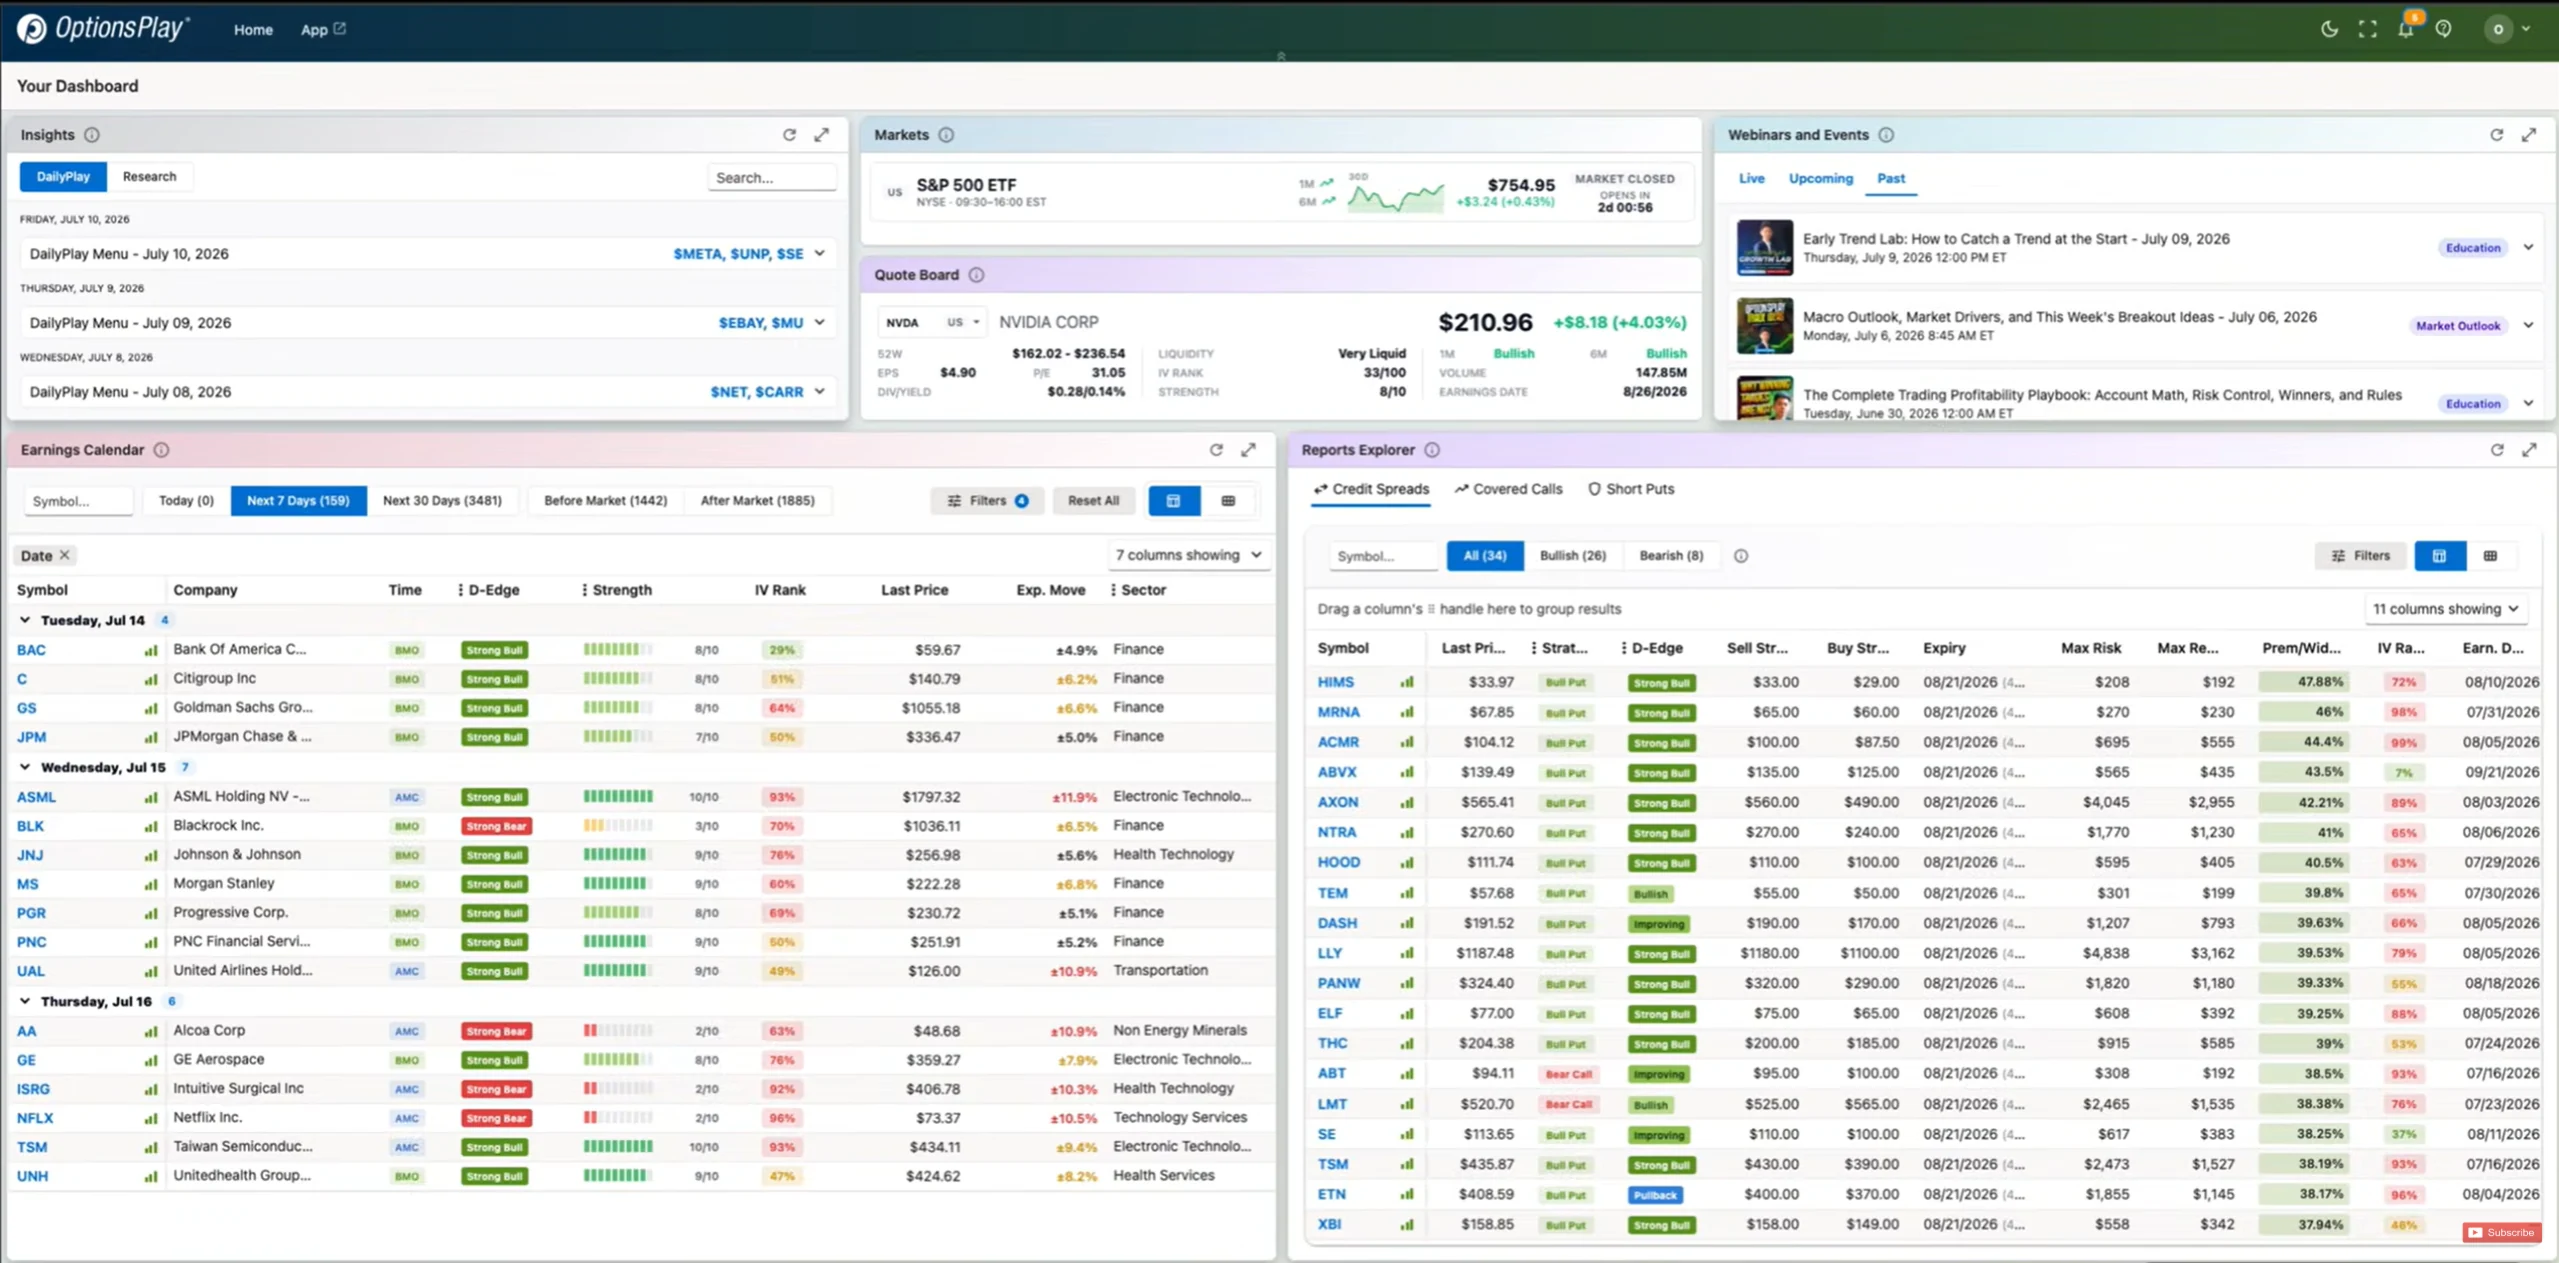
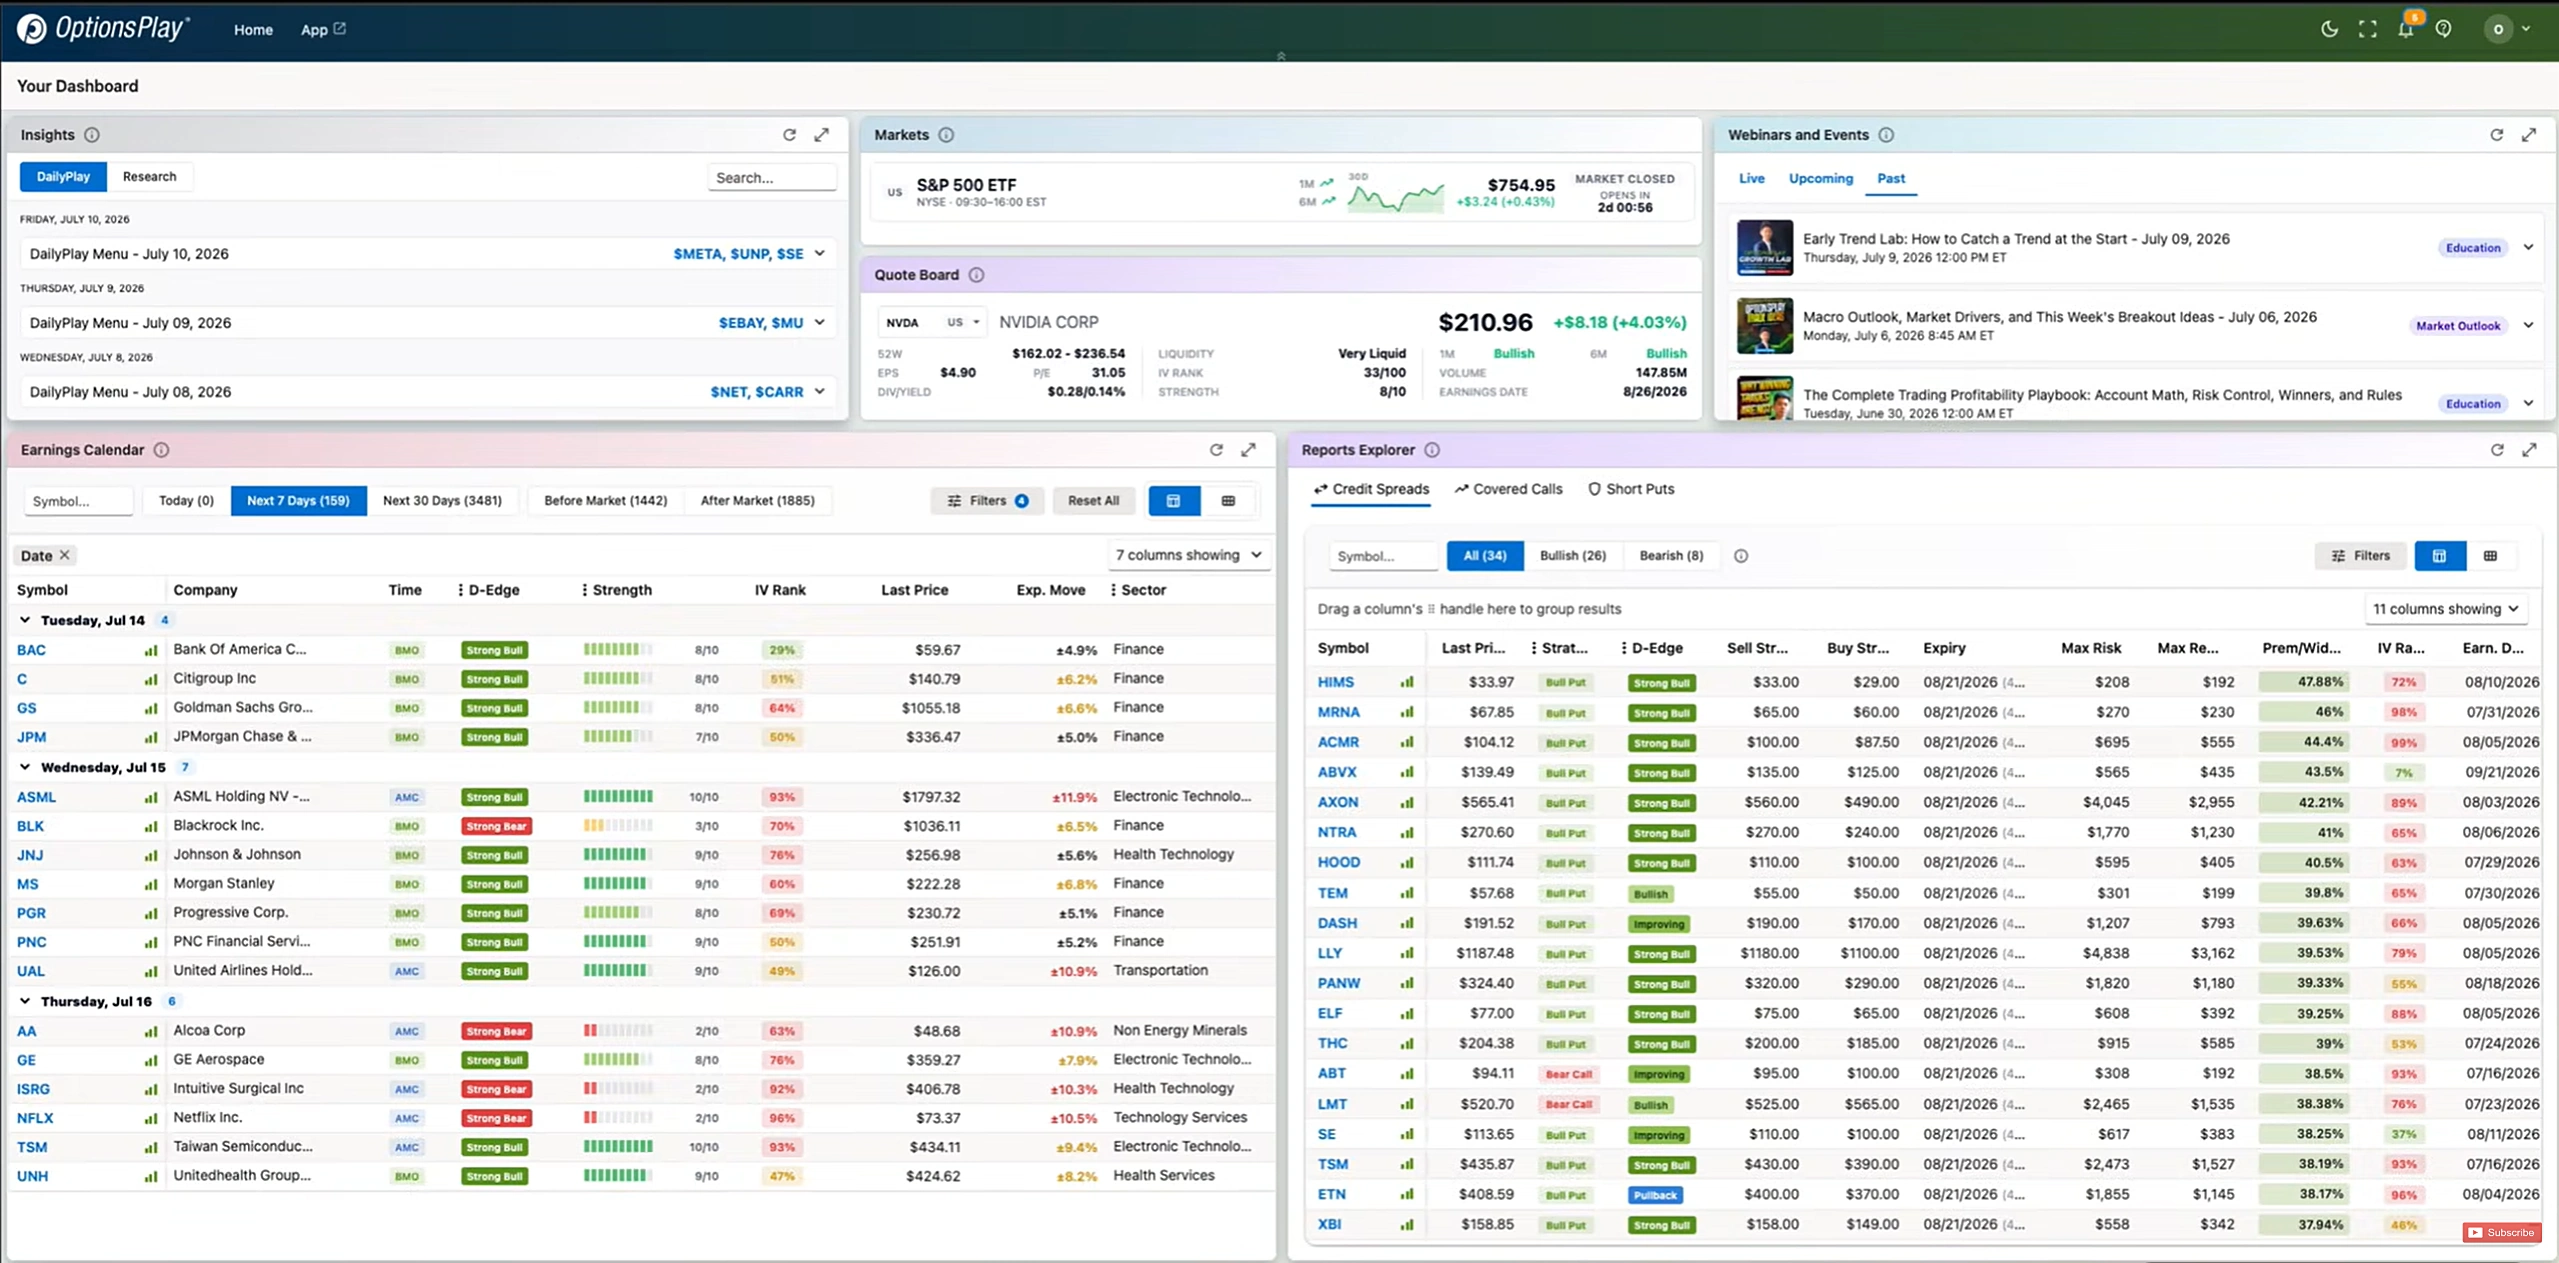
OptionsPlay: sharper after image, polished before/after slider (#10)
Claude-Session: https://claude.ai/code/session_012VHMbrfKj18GrAmvx2kKi2

diff --git a/optionsplay.html b/optionsplay.html
@@ -87,13 +87,20 @@ h1{font-size:clamp(28px,1.4vw + 16px,42px);line-height:1.15;font-weight:600;marg
 .ba img{border:0;box-shadow:none}
 .ba-a{position:absolute;inset:0;width:100%;height:100%;object-fit:cover;object-position:left top}
 .ba-b{position:absolute;inset:0;background:#fff;clip-path:inset(0 calc(100% - var(--p)) 0 0)}
-.ba-b img{width:100%;height:100%;object-fit:contain;object-position:center}
-.ba .lbl{top:12px;left:12px;z-index:2;pointer-events:none}
-.ba .lbl-r{left:auto;right:12px}
-.ba-line{position:absolute;top:0;bottom:0;left:var(--p);width:2px;margin-left:-1px;background:var(--brand);z-index:3;pointer-events:none}
-.ba-k{position:absolute;top:50%;left:50%;width:44px;height:44px;transform:translate(-50%,-50%);display:grid;place-items:center;background:var(--brand);color:#fff;box-shadow:0 4px 14px rgba(0,0,0,.2)}
+.ba-b img{width:100%;height:100%;object-fit:cover;object-position:left top}
+.ba .lbl{top:auto;bottom:14px;left:14px;z-index:2;pointer-events:none;display:flex;flex-direction:column;gap:2px;padding:8px 12px;font-size:15px;font-weight:600;line-height:1.2;transition:opacity .2s}
+.ba .lbl small{font-size:13px;font-weight:400;opacity:1;color:#E6F0E8}
+.ba .lbl-b{background:#2B2B29}
+.ba .lbl-r{left:auto;right:14px;text-align:right}
+.ba.lo .lbl-b,.ba.hi .lbl-r{opacity:0}
+@media (max-width:640px){.ba .lbl{padding:4px 8px;font-size:13px;bottom:8px;left:8px}.ba .lbl-r{left:auto;right:8px}.ba .lbl small{display:none}.ba-k{width:44px;height:44px}}
+.ba-line{position:absolute;top:0;bottom:0;left:var(--p);width:2px;margin-left:-1px;background:#fff;box-shadow:0 0 0 1px rgba(0,0,0,.15),0 0 12px rgba(0,0,0,.2);z-index:3;pointer-events:none}
+.ba-k{position:absolute;top:50%;left:50%;width:48px;height:48px;border:2px solid #fff;transition:transform .15s;transform:translate(-50%,-50%);display:grid;place-items:center;background:var(--brand);color:#fff;box-shadow:0 4px 14px rgba(0,0,0,.2)}
 .ba-r{position:absolute;inset:0;width:100%;height:100%;margin:0;opacity:0;cursor:ew-resize;z-index:4}
 .ba-r:focus-visible~.ba-line .ba-k,.ba-f:has(.ba-r:focus-visible) .ba-k{outline:3px solid var(--ink);outline-offset:3px}
+.ba-f:hover .ba-k,.ba.drag .ba-k{transform:translate(-50%,-50%) scale(1.08)}
+.ba.anim .ba-line{transition:left .7s cubic-bezier(.4,0,.2,1)}.ba.anim .ba-b{transition:clip-path .7s cubic-bezier(.4,0,.2,1)}
+@media (prefers-reduced-motion:reduce){.ba.anim .ba-line,.ba.anim .ba-b{transition:none}}
 .ba-cap{margin-top:12px;font-size:14px;color:#555557}
 .before-plate img{border:1px solid var(--line);box-shadow:0 10px 30px rgba(0,0,0,.08)}
 /* TL;DR */
@@ -503,11 +510,11 @@ h1{font-size:clamp(28px,1.4vw + 16px,42px);line-height:1.15;font-weight:600;marg
     <div class="ba-f">
      <img class="ba-a" src="assets/img/optionsplay/new-dashboard.webp" alt="After: the redesigned customizable dashboard with Insights, Markets, Quote Board, Webinars, Earnings Calendar and Reports Explorer widgets" width="2559" height="1263" loading="lazy">
      <div class="ba-b"><img src="assets/img/optionsplay/legacy-dashboard.webp" alt="Before: the legacy OptionsPlay dashboard with an ideas list, a chart and strategy cards for one stock" width="915" height="519" loading="lazy"></div>
-     <span class="lbl">Before</span><span class="lbl lbl-r">After</span>
+     <span class="lbl lbl-b">Before<small>One stock, fixed layout</small></span><span class="lbl lbl-r">After<small>Customizable widget workspace</small></span>
      <span class="ba-line" aria-hidden="true"><span class="ba-k"><svg width="24" height="24" viewBox="0 0 24 24" fill="none" stroke="currentColor" stroke-width="2" stroke-linecap="round" stroke-linejoin="round"><path d="M9 6l-6 6 6 6M15 6l6 6-6 6"/></svg></span></span>
      <input class="ba-r" type="range" min="0" max="100" value="50" step="1" aria-label="Compare before and after: drag left to see more of the after, right to see more of the before">
     </div>
-    <figcaption class="ba-cap">Drag the handle to compare the legacy dashboard with the redesign.</figcaption>
+    <figcaption class="ba-cap">Drag to compare. 12 years of legacy UI on the left, the redesigned workspace on the right.</figcaption>
    </figure>
   </div>
 
@@ -996,7 +1003,13 @@ document.querySelectorAll('[data-tabs]').forEach(box=>{
  sel(0);
 });
 }
-document.querySelectorAll('.ba').forEach(f=>{const r=f.querySelector('.ba-r');const set=()=>f.style.setProperty('--p',r.value+'%');r.addEventListener('input',set);set()});
+document.querySelectorAll('.ba').forEach(f=>{const r=f.querySelector('.ba-r');
+ const set=v=>{r.value=v;f.style.setProperty('--p',v+'%');f.classList.toggle('lo',v<22);f.classList.toggle('hi',v>78)};
+ r.addEventListener('input',()=>{f.classList.remove('anim');set(+r.value)});
+ r.addEventListener('pointerdown',()=>f.classList.add('drag'));addEventListener('pointerup',()=>f.classList.remove('drag'));set(50);
+ if(matchMedia('(prefers-reduced-motion:reduce)').matches||!('IntersectionObserver' in window))return;
+ const io=new IntersectionObserver(es=>{if(!es[0].isIntersecting)return;io.disconnect();f.classList.add('anim');
+  setTimeout(()=>set(35),300);setTimeout(()=>set(62),1100);setTimeout(()=>{set(50);setTimeout(()=>f.classList.remove('anim'),800)},1900)},{threshold:.6});io.observe(f)});
 </script>
 </body>
 </html>
